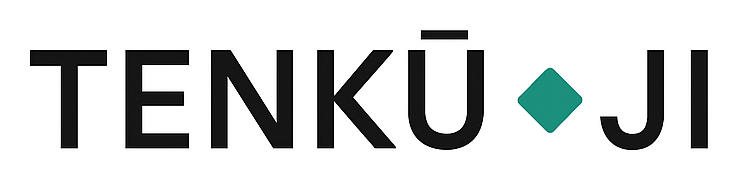
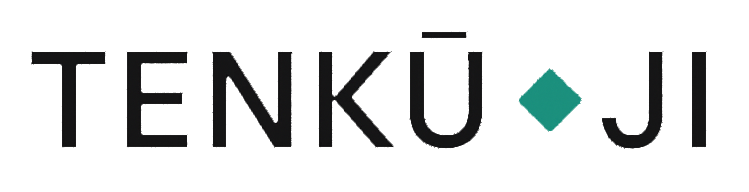
Changed some stuff

diff --git a/index.html b/index.html
@@ -94,8 +94,8 @@
 						
 						<li><a href="#home">Tenku-ji</a></li>
 						<li><a href="#section_buddhism">Zen Buddhism</a></li>
-						<li><a href="#section_newcomers">Schedule</a></li>
-						<li><a href="#section_newcomers">Newcomers</a></li>
+						<li><a href="#section_schedule">Schedule</a></li>
+						<li><a href="#section_contact">Contact</a></li>
 						<li><a href="./es/index.html">Español</a></li>
 	   </ul>
 				</div>
@@ -121,7 +121,7 @@
 			
 			<!-- SCREENSHOT -->
 			<div class="home-screenshot side-screenshot pull-left">
-				<img src="images/tenku-ji-logo.png" alt="tenku-ji" class="img-responsive">
+				<img src="images/tenku-ji-transparent.png" alt="tenku-ji" class="img-responsive">
 			</div>
 			
 		</div>
@@ -130,7 +130,7 @@
 			<div class="col-md-6 intro-section">
 				
 				<h2 class="intro text-left">
-				<span class="colored-text">Tenkū-ji Zen</span><strong> Centre</strong>
+				<span class="colored-text">Rinzai Zen</span><strong> Centre</strong>
 				</h2>
 				
 				<p class="sub-heading text-left">
@@ -267,88 +267,56 @@
 	
 	<!-- SECTION HEADING -->
 	
-	<h2 class="text-middle">SCHEDULE</h2>
-	
-	
-	
-	<div class="sub-heading text-left" style="margin-top:1%"">
-		At Tenkū-ji:
-	</div>
+	<h2 class="text-left">SCHEDULE</h2>
+	<div class="colored-line pull-left"></div>
+	<div class="clearfix"></div>
 
-	<div class="colored-line pull-left">
-	</div>
-	
-	<div class="features text-middle">
-		
-		<!-- FEATURES ROW 1 -->
-		<div class="row">
-			
-			<!-- SINGLE FEATURE BOX -->
-			<div class="col-md-3">
-				<div class="feature">
-					<div class="icon">
-						<span class="icon_clock"></span>
-					</div>
-					<h6>Tuesday</h6>
-					<p>
-						<h5>6:00 AM - 7:00 AM</h5>
-					</p>
-				</div>
-			</div>
-			
-									<!-- SINGLE FEATURE BOX -->
-			<div class="col-md-3">
-				<div class="feature">
-					<div class="icon">
-						<span class="icon_clock"></span>
-					</div>
-					<h6>Thursday</h6>
-					<p>
-						<h5>6:00 AM - 7:00 AM</h5>
-					</p>
-				</div>
-			</div>
-			
-			
+<h3 class="text-left" style="margin-top:5px;">At Tenkū-ji:</h3>
 
-			<!-- SINGLE FEATURE BOX -->
-			<div class="col-md-3">
-				<div class="feature">
-					<div class="icon">
-						<span class="icon_clock"></span>
-					</div>
-					<h6>Saturday</h6>
-					<p>
-						<h5>9:30 AM - 11:00 AM</h5>
-					</p>
-				</div>
-			</div>
-		</div>
-	</div>
-		
-		<div class="sub-heading text-left">
-			In Pereira:
-		</div>
-		<div class="colored-line pull-left">
-		</div>
-		
-		<div class="features">
-			
-			<!-- FEATURES ROW 1 -->
-			<div class="row">
-				
-				<!-- SINGLE FEATURE BOX -->
-				<div class="col-md-4">
-					<div class="feature">
-						<div class="icon">
-							<span class="icon_clock"></span>
-						</div>
-						<h6>Monday</h6>
-						<p>
-							<h5>4:00 PM - 5:30 PM</h5>
-						</p>
-					</div>
-				</div>
+
+<div class="features text-center">
+  <div class="row">
+    <div class="col-sm-4">
+      <div class="feature">
+        <div class="icon"><span class="icon_clock"></span></div>
+        <h6>Tuesday</h6>
+        <div class="schedule-time">6:00 AM – 7:00 AM</div>
+      </div>
+    </div>
+
+    <div class="col-sm-4">
+      <div class="feature">
+        <div class="icon"><span class="icon_clock"></span></div>
+        <h6>Thursday</h6>
+        <div class="schedule-time">6:00 AM – 7:00 AM</div>
+      </div>
+    </div>
+
+    <div class="col-sm-4">
+      <div class="feature">
+        <div class="icon"><span class="icon_clock"></span></div>
+        <h6>Saturday</h6>
+        <div class="schedule-time">9:30 AM – 11:00 AM</div>
+      </div>
+    </div>
+  </div>
+</div>
+
+<div class="clearfix"></div>
+
+<h3 class="text-left" style="margin-top:5px;">In Pereira:</h3>
+
+<div class="features text-center">
+  <div class="row">
+    <div class="col-sm-4 col-sm-offset-4">
+      <div class="feature">
+        <div class="icon"><span class="icon_clock"></span></div>
+        <h6>Monday</h6>
+        <div class="schedule-time">4:00 PM – 5:30 PM</div>
+      </div>
+    </div>
+  </div>
+</div>
 
 
 		<!-- FEATURES ROW 2 -->
@@ -360,8 +328,7 @@
 					<!-- <div class="icon">
 						<span class="arrow_down_alt"></span>
 					</div> -->
-					<p>Please be in touch for more information and for directions.</p>
-					<p>Practice is free and open to all.</p> 
+					<p>Please be in touch for more information and for directions. Practice is free and open to all.</p> 
 						<!-- BIG RED BOX -->
 						<div class="col-md-12">
 						<div class="package bgcolor-white">
@@ -372,14 +339,6 @@
 						</div><!-- / BIG RED BOX -->
 
 					</div>
-					<p>Contact
-
-Email: tenkujiinfo@gmail.com
-
-WhatsApp: +57 3217719289
-
-At Tenkū-ji, we welcome people of all backgrounds and identities. 
-							We commit to cultivating a space of respect, belonging, and openness where all can practice together.</p>
 
 			</div>
 
@@ -392,7 +351,47 @@ At Tenkū-ji, we welcome people of all backgrounds and identities.
 
 </section>
 
+<!-- =========================
+     SECTION CONTACT / INCLUSION
+============================== -->
 
+<section class="section3 bgcolor-2" id="section_contact">
+
+  <div class="container">
+    <div class="row">
+
+      <div class="col-md-6">
+
+		<div class="brief text-left">
+
+          <h2>CONTACT</h2>
+          <div class="colored-line pull-left"></div>
+
+          <p>
+            <strong>Contact Email:</strong> <a href="mailto:tenkujiinfo@gmail.com">tenkujiinfo@gmail.com</a><br>
+            <strong>WhatsApp:</strong> <a href="https://wa.me/573217719289">+57 321 771 9289</a>
+          </p>
+
+          <p>
+            At Tenkū-ji, we welcome people of all backgrounds and identities. We commit to cultivating a space of respect, belonging, and openness where all can practice together.
+          </p>
+
+        </div>
+
+      </div>
+
+      <div class="col-md-6">
+			        <!-- IMAGE (placeholder or replace src) -->
+        <div class="side-screenshot pull-left">
+          <img src="images/view.jpg" alt="Contact" class="img-responsive">
+        </div>
+
+      </div>
+
+    </div>
+  </div>
+
+</section>
 
 <!-- =========================
      SECTION 10 - FOOTER 
@@ -402,9 +401,9 @@ At Tenkū-ji, we welcome people of all backgrounds and identities.
 	
 	<div class="copyright">
 
-		<p>Main background photo credit: ©2011 Marie Thérèse Blanc</p>
+		<p>Portrait photo credit: ©2014 <a href="https://veroniquemystique.com">Veronique Mystique</a></p>
 
-		 ©2025 Tenku-ji Zen Centre | <a href="https://enpuku-ji.org/privacy-policy.html">Privacy Policy</a>
+		 ©2025 Tenku-ji Zen Centre | <a href="https://tenku-ji.com/privacy-policy.html">Privacy Policy</a>
 	</div>
 
 	

diff --git a/css/styles.css b/css/styles.css
@@ -382,7 +382,7 @@ header .vertical-registration-form {
 }
 
 header .home-screenshot {
-    margin-top: 70px;
+    margin-top: 10rem;
 }
 
 .navigation-header {
@@ -534,17 +534,17 @@ header .home-screenshot {
    4.4 SECTION: FEATURES                
 ==========================================*/
 .features {
-	margin-top: 35px;
+	margin-top: 15px;
 }
 
 .feature {
-	margin-top: 40px;
-	margin-bottom: 35px;
+	margin-top: 20px;
+	margin-bottom: 17px;
 }
 
 .feature .icon {
 	font-size: 50px;
-	margin-bottom: 30px;
+	margin-bottom: 15px;
 }
 
 .feature h4 {
@@ -563,7 +563,7 @@ header .home-screenshot {
 	overflow: auto;
 	border: 1px solid #e5e5e5;
 	border-radius: 3px;
-	margin-top: 40px;
+	margin-top: 20px;
 }
 
 .package .header {

diff --git a/privacy-policy.html b/privacy-policy.html
@@ -88,7 +88,7 @@
 				</div>
 				
 				<!-- TEXT -->
-				<p>Enpuku-ji does not collect any data on users of this website.</p>
+				<p>Tenku-ji does not collect any data on users of this website.</p>
 
 
 		</div> <!-- /END DETAILS WITH LIST -->
